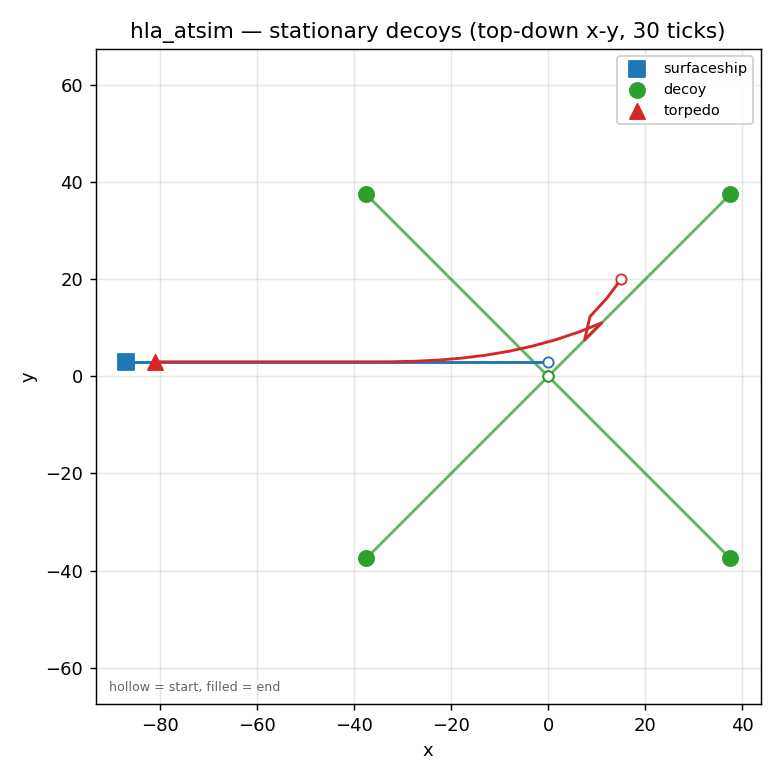
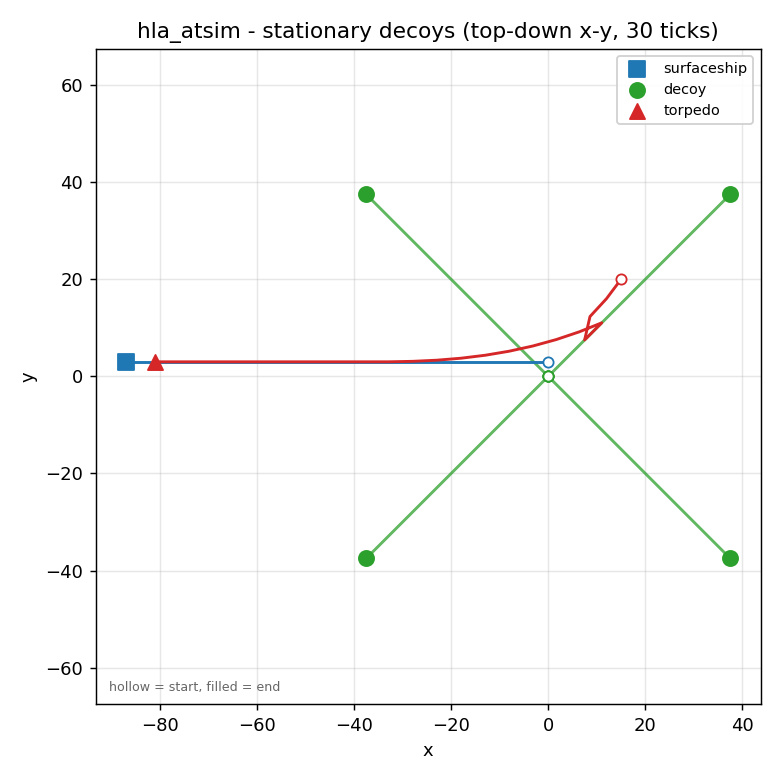
docs(hla_atsim): add 3-D view and torpedo range-vs-tick plots (#27)
Extend plot_trajectories.py to render, per scenario, three figures:
- atsim_<tag>.png        top-down x-y (as before)
- atsim_<tag>_3d.png     3-D (x, y, z depth) — shows the torpedo starting
                         deep (z=-9) and rising as it homes in
- atsim_<tag>_range.png  torpedo 3-D distance to the ship and to each decoy
                         vs. tick — quantifies decoy effectiveness

The range plots make the seduction explicit: with self-propelled decoys the
torpedo->decoy distance collapses to 0 (~tick 13) while torpedo->ship grows
past 70; with stationary decoys no decoy holds the torpedo and torpedo->ship
closes to ~6. README "Trajectories" table and docs/source/pyjevsim_hla.rst
updated with the new figures. All figures remain identical for the standalone
and two-federate HLA runs.

Pull request: docs(hla_atsim): 3-D view + torpedo range-vs-tick plots
Adds two more figure types for the `hla_atsim` example (requested follow-up to the top-down plots).

- **3-D view** (`atsim_<tag>_3d.png`) — x, y, z-depth; shows the torpedo starting deep (`z = -9`) and rising as it homes in, which the top-down view can't convey.
- **Range vs. tick** (`atsim_<tag>_range.png`) — the torpedo's 3-D distance to the ship and to each decoy over time. This **quantifies decoy effectiveness**:
  - self-propelled: torpedo→decoy → 0 around tick 13 (seduction) while torpedo→ship grows past 70 (ship escapes);
  - stationary: no decoy holds the torpedo; torpedo→ship closes to ~6.

`plot_trajectories.py` now renders all three figures per scenario. README table and `docs/source/pyjevsim_hla.rst` updated. All figures are identical for the standalone reference and the two-federate HLA co-simulation. Docs only.

🤖 Generated with [Claude Code](https://claude.com/claude-code)

Changed region(s): [[0.3385, 0.0308, 0.9231, 0.0615], [0.1538, 0.0308, 0.3077, 0.0615]]

diff --git a/examples/hla_atsim/plot_trajectories.py b/examples/hla_atsim/plot_trajectories.py
@@ -1,10 +1,16 @@
-"""Render top-down (x-y) trajectory plots for the hla_atsim scenarios.
+"""Render trajectory / engagement figures for the hla_atsim scenarios.
 
 Headless (matplotlib Agg). Reads the deterministic ``standalone_<tag>.csv``
-(generating it via ``run_standalone_headless.py`` if missing) and writes
-``figures/atsim_<tag>.png``. The federated HLA runs (``run_hla_inprocess.py`` /
-``run_hla_pitch.py``) produce byte-identical CSVs, so one figure represents
-both the standalone reference and the two-federate co-simulation.
+(generating it via ``run_standalone_headless.py`` if missing) and writes, per
+scenario, three figures under ``figures/``:
+
+  * ``atsim_<tag>.png``        — top-down (x-y) trajectories
+  * ``atsim_<tag>_3d.png``     — 3-D (x, y, z) trajectories
+  * ``atsim_<tag>_range.png``  — torpedo range to the ship and to each decoy vs. tick
+
+The federated HLA runs (``run_hla_inprocess.py`` / ``run_hla_pitch.py``)
+produce byte-identical CSVs, so one set of figures represents both the
+standalone reference and the two-federate co-simulation.
 
     python examples/hla_atsim/plot_trajectories.py            # both scenarios
     python examples/hla_atsim/plot_trajectories.py stationary # one scenario
@@ -13,6 +19,7 @@ both the standalone reference and the two-federate co-simulation.
 from __future__ import annotations
 
 import csv
+import math
 import os
 import subprocess
 import sys
@@ -20,6 +27,7 @@ import sys
 import matplotlib
 matplotlib.use("Agg")            # headless; never import the GUI pos_plotter
 import matplotlib.pyplot as plt  # noqa: E402
+from mpl_toolkits.mplot3d import Axes3D  # noqa: E402,F401  (registers 3d proj)
 
 HERE = os.path.dirname(os.path.abspath(__file__))
 FIG_DIR = os.path.join(HERE, "figures")
@@ -37,11 +45,12 @@ def ensure_csv(tag: str) -> str:
 
 
 def load(path: str) -> dict:
+    """object_name -> sorted list of (tick, x, y, z)."""
     tracks: dict = {}
     with open(path) as f:
         for row in csv.DictReader(f):
             tracks.setdefault(row["object_name"], []).append(
-                (int(row["tick"]), float(row["x"]), float(row["y"]))
+                (int(row["tick"]), float(row["x"]), float(row["y"]), float(row["z"]))
             )
     for k in tracks:
         tracks[k].sort()
@@ -56,7 +65,23 @@ def style(name: str) -> dict:
     return dict(color="tab:blue", marker="s", kind="surfaceship", z=5, alpha=1.0)
 
 
-def plot(tag: str) -> str:
+def _dist(a, b) -> float:
+    return math.sqrt((a[0] - b[0]) ** 2 + (a[1] - b[1]) ** 2 + (a[2] - b[2]) ** 2)
+
+
+def _save(fig, tag: str, suffix: str) -> str:
+    os.makedirs(FIG_DIR, exist_ok=True)
+    out = os.path.join(FIG_DIR, f"atsim_{tag}{suffix}.png")
+    fig.tight_layout()
+    fig.savefig(out, dpi=130)
+    plt.close(fig)
+    print("wrote", out)
+    return out
+
+
+# ------------------------------------------------------------------ 2-D x-y
+
+def plot_xy(tag: str) -> str:
     tracks = load(ensure_csv(tag))
     fig, ax = plt.subplots(figsize=(6, 6))
     labelled = set()
@@ -66,30 +91,71 @@ def plot(tag: str) -> str:
         st = style(name)
         lbl = st["kind"] if st["kind"] not in labelled else None
         labelled.add(st["kind"])
-        ax.plot(xs, ys, "-", color=st["color"], alpha=st["alpha"],
-                linewidth=1.6, zorder=st["z"])
-        ax.scatter(xs[0], ys[0], facecolors="white", edgecolors=st["color"],
-                   marker="o", s=32, zorder=st["z"] + 1)              # start (hollow)
-        ax.scatter(xs[-1], ys[-1], color=st["color"], marker=st["marker"],
-                   s=70, zorder=st["z"] + 1, label=lbl)               # end (shape)
-
-    ax.set_title(f"hla_atsim — {tag} decoys (top-down x-y, 30 ticks)")
-    ax.set_xlabel("x")
-    ax.set_ylabel("y")
+        ax.plot(xs, ys, "-", color=st["color"], alpha=st["alpha"], linewidth=1.6, zorder=st["z"])
+        ax.scatter(xs[0], ys[0], facecolors="white", edgecolors=st["color"], marker="o", s=32, zorder=st["z"] + 1)
+        ax.scatter(xs[-1], ys[-1], color=st["color"], marker=st["marker"], s=70, zorder=st["z"] + 1, label=lbl)
+    ax.set_title(f"hla_atsim - {tag} decoys (top-down x-y, 30 ticks)")
+    ax.set_xlabel("x"); ax.set_ylabel("y")
     ax.set_aspect("equal", adjustable="datalim")
-    ax.grid(True, alpha=0.3)
-    ax.legend(loc="best", fontsize=8, framealpha=0.9)
-    ax.annotate("hollow = start, filled = end",
-                xy=(0.02, 0.02), xycoords="axes fraction", fontsize=7,
-                color="0.4")
+    ax.grid(True, alpha=0.3); ax.legend(loc="best", fontsize=8, framealpha=0.9)
+    ax.annotate("hollow = start, filled = end", xy=(0.02, 0.02), xycoords="axes fraction", fontsize=7, color="0.4")
+    return _save(fig, tag, "")
 
-    os.makedirs(FIG_DIR, exist_ok=True)
-    out = os.path.join(FIG_DIR, f"atsim_{tag}.png")
-    fig.tight_layout()
-    fig.savefig(out, dpi=130)
-    plt.close(fig)
-    print("wrote", out)
-    return out
+
+# ------------------------------------------------------------------- 3-D
+
+def plot_3d(tag: str) -> str:
+    tracks = load(ensure_csv(tag))
+    fig = plt.figure(figsize=(6.5, 6))
+    ax = fig.add_subplot(111, projection="3d")
+    labelled = set()
+    for name, pts in sorted(tracks.items()):
+        xs = [p[1] for p in pts]; ys = [p[2] for p in pts]; zs = [p[3] for p in pts]
+        st = style(name)
+        lbl = st["kind"] if st["kind"] not in labelled else None
+        labelled.add(st["kind"])
+        ax.plot(xs, ys, zs, "-", color=st["color"], alpha=st["alpha"], linewidth=1.6)
+        ax.scatter(xs[0], ys[0], zs[0], facecolors="white", edgecolors=st["color"], marker="o", s=28)
+        ax.scatter(xs[-1], ys[-1], zs[-1], color=st["color"], marker=st["marker"], s=55, label=lbl)
+    ax.set_title(f"hla_atsim - {tag} decoys (3-D, 30 ticks)")
+    ax.set_xlabel("x"); ax.set_ylabel("y"); ax.set_zlabel("z (depth)")
+    ax.legend(loc="upper left", fontsize=8)
+    ax.view_init(elev=22, azim=-60)
+    return _save(fig, tag, "_3d")
+
+
+# ------------------------------------------------------- range vs. time
+
+def plot_range(tag: str) -> str:
+    tracks = load(ensure_csv(tag))
+    torp_name = next((n for n in tracks if n.startswith("red_torpedo")), None)
+    ship_name = next((n for n in tracks if n.startswith("blue_ship") and "decoy" not in n), None)
+    if torp_name is None:
+        raise SystemExit("no torpedo track")
+    torp = {t: (x, y, z) for (t, x, y, z) in tracks[torp_name]}
+
+    fig, ax = plt.subplots(figsize=(7, 4.5))
+    # torpedo -> ship
+    if ship_name:
+        ship = {t: (x, y, z) for (t, x, y, z) in tracks[ship_name]}
+        ts = sorted(set(torp) & set(ship))
+        ax.plot(ts, [_dist(torp[t], ship[t]) for t in ts], "-", color="tab:blue",
+                linewidth=2.4, label="to surfaceship", zorder=5)
+    # torpedo -> each decoy
+    first = True
+    for name in sorted(n for n in tracks if "decoy" in n):
+        d = {t: (x, y, z) for (t, x, y, z) in tracks[name]}
+        ts = sorted(set(torp) & set(d))
+        if not ts:
+            continue
+        ax.plot(ts, [_dist(torp[t], d[t]) for t in ts], "-", color="tab:green",
+                linewidth=1.3, alpha=0.8, label="to decoys" if first else None)
+        first = False
+    ax.axhline(0, color="0.7", linewidth=0.8)
+    ax.set_title(f"hla_atsim - {tag} decoys: torpedo range vs. tick")
+    ax.set_xlabel("tick"); ax.set_ylabel("3-D distance to torpedo")
+    ax.grid(True, alpha=0.3); ax.legend(loc="best", fontsize=8)
+    return _save(fig, tag, "_range")
 
 
 def main() -> None:
@@ -97,7 +163,9 @@ def main() -> None:
     if tags == ["all"]:
         tags = SCENARIOS
     for t in tags:
-        plot(t)
+        plot_xy(t)
+        plot_3d(t)
+        plot_range(t)
 
 
 if __name__ == "__main__":

diff --git a/examples/hla_atsim/README.md b/examples/hla_atsim/README.md
@@ -83,21 +83,30 @@ done
 
 ## Trajectories
 
-Top-down (x–y) engagement over 30 ticks. Because the standalone and both HLA
-runs are byte-identical, one figure represents all three. Regenerate with
-`python examples/hla_atsim/plot_trajectories.py` (headless matplotlib).
+Engagement over 30 ticks. Because the standalone and both HLA runs are
+byte-identical, one set of figures represents all three. Regenerate with
+`python examples/hla_atsim/plot_trajectories.py` (headless matplotlib) — it
+writes three figures per scenario (top-down, 3-D, range-vs-tick).
 
-| self-propelled decoys | stationary decoys |
-|-----------------------|-------------------|
-| ![self-propelled decoy engagement](figures/atsim_self_propelled.png) | ![stationary decoy engagement](figures/atsim_stationary.png) |
+| view | self-propelled decoys | stationary decoys |
+|------|-----------------------|-------------------|
+| top-down (x–y) | ![sp x-y](figures/atsim_self_propelled.png) | ![st x-y](figures/atsim_stationary.png) |
+| 3-D (x, y, z depth) | ![sp 3d](figures/atsim_self_propelled_3d.png) | ![st 3d](figures/atsim_stationary_3d.png) |
+| torpedo range vs. tick | ![sp range](figures/atsim_self_propelled_range.png) | ![st range](figures/atsim_stationary_range.png) |
 
 The surfaceship (blue) flees west while its `Launcher` deploys four decoys
-(green). With **self-propelled** decoys, one crosses into the torpedo's path
-and seduces it — the torpedo (red) locks onto the decoy near `(-9, 7)` and
-stops short of the ship. With **stationary** decoys, the decoys jump to fixed
-offsets away from the torpedo's approach, so the torpedo is not seduced and
-runs down the ship's track. Both outcomes are reproduced identically by the
-two-federate HLA co-simulation. (hollow marker = start, filled = end.)
+(green); the torpedo (red) starts deep (`z = -9`) and rises as it homes in.
+
+- **Self-propelled decoys — seduction succeeds.** One decoy crosses into the
+  torpedo's path; the range plot shows the torpedo→decoy distance collapsing to
+  `0` around tick 13 while the torpedo→ship distance grows past `70` — the ship
+  escapes.
+- **Stationary decoys — seduction fails (here).** The decoys jump to fixed
+  offsets away from the torpedo's approach; the torpedo→ship distance instead
+  closes to ~`6` and holds — the torpedo runs down the ship's track.
+
+Both outcomes are reproduced identically by the two-federate HLA co-simulation.
+(In the top-down/3-D plots, hollow marker = start, filled = end.)
 
 ## Why standalone == HLA, deterministically
 

diff --git a/docs/source/pyjevsim_hla.rst b/docs/source/pyjevsim_hla.rst
@@ -179,6 +179,27 @@ simulation's dynamics.
    track. Both figures are rendered by ``plot_trajectories.py`` and are
    identical for the standalone and the two-federate HLA runs.
 
+``plot_trajectories.py`` also renders a 3-D (x, y, z-depth) view and a
+range-vs-tick plot per scenario. The range plot makes the decoy effectiveness
+quantitative — the torpedo's 3-D distance to the ship and to each decoy over
+time:
+
+.. figure:: ../../examples/hla_atsim/figures/atsim_self_propelled_range.png
+   :width: 70%
+   :align: center
+
+   Self-propelled decoys: the torpedo→decoy distance collapses to zero around
+   tick 13 (seduction) while the torpedo→ship distance grows past 70 — the ship
+   escapes.
+
+.. figure:: ../../examples/hla_atsim/figures/atsim_stationary_range.png
+   :width: 70%
+   :align: center
+
+   Stationary decoys: no decoy holds the torpedo; its distance to the ship
+   instead closes to ~6 and holds. The full figure set (top-down, 3-D, range
+   for both scenarios) is under ``examples/hla_atsim/figures/``.
+
 Low-level stepping
 ------------------
 